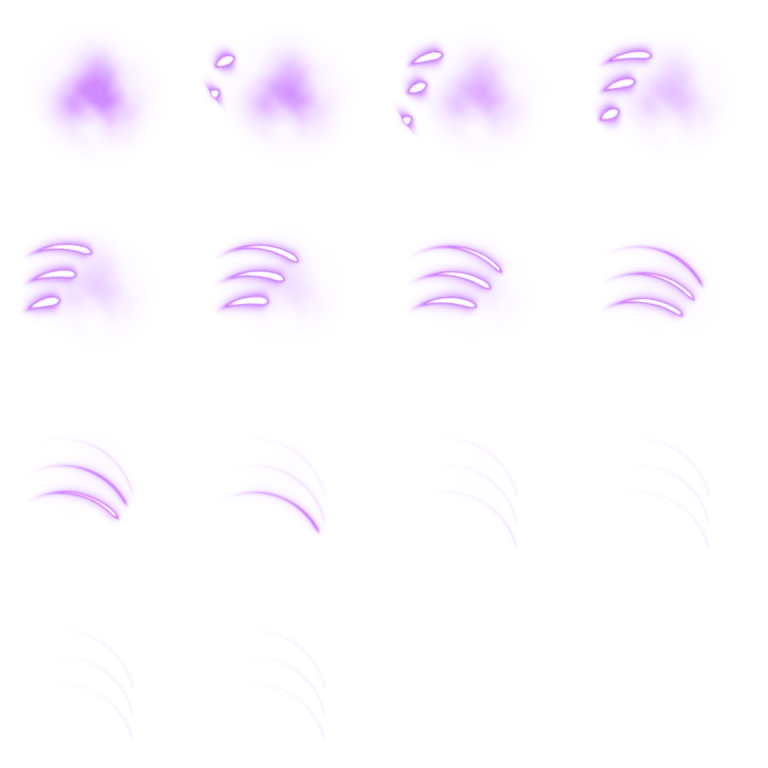
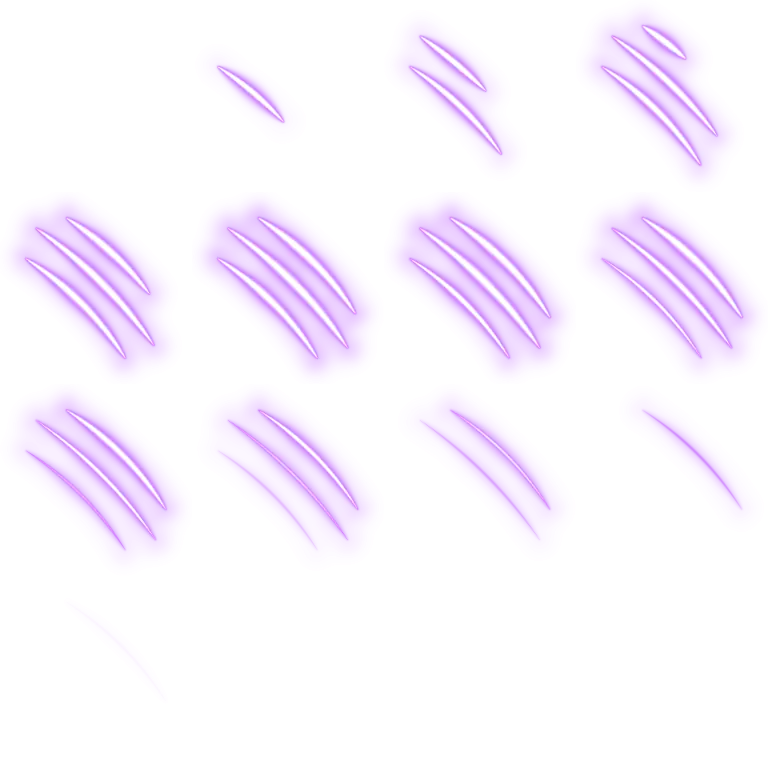
Soul Ripper: bold three-claw rake effect, violet GB warning aura and outline flash, claws replace the yellow crush burst
Claude-Session: https://claude.ai/code/session_013of82ajRnBL7BbPzCXSFar

diff --git a/src/render/battle-view.ts b/src/render/battle-view.ts
@@ -306,13 +306,18 @@ export class BattleView {
         const fx = toPx(f.x);
         const fy = toPx(f.y);
         this.vfx.shatter(fx, fy, this.fighters[who].color, 6, 18, 30);
-        this.fx.spawn('crush', { x: fx, y: fy, size: 3.4 * PX, alpha: 0.75 });
-        if (e.type === EV_CRUSH && this.moveIs(e.who, 'soulRipper')) this.fx.spawn('reaper', { x: fx, y: fy, size: 3.4 * PX, rot: s.f[e.who].facing * ANG_TO_RAD, speed: 1.4 });
+        // Soul Ripper crushes with its own violet claws instead of the generic yellow shatter
+        const ripper = e.type === EV_CRUSH && this.moveIs(e.who, 'soulRipper');
+        const accent = ripper ? 0xd9a8ff : 0xffd060;
+        if (ripper) {
+          this.fx.spawn('reaper', { x: fx, y: fy, size: 4.2 * PX, rot: s.f[e.who].facing * ANG_TO_RAD, speed: 0.9, alpha: 0.9 });
+          this.fx.spawn('ghost_fade', { x: fx, y: fy, size: 2.4 * PX, alpha: 0.45 });
+        } else this.fx.spawn('crush', { x: fx, y: fy, size: 3.4 * PX, alpha: 0.75 });
         if (e.type === EV_CRUSH && this.moveIs(e.who, 'breakFang')) this.fx.spawn('fang', { x: fx, y: fy, size: 2.6 * PX, rot: s.f[e.who].facing * ANG_TO_RAD, speed: 1.6 });
-        this.vfx.ring(fx, fy, 0xffd060, 20, 180, 20, 10);
-        this.vfx.spark(fx, fy, 0xffd060, 16, 30, 40, 6);
-        this.vfx.text(e.type === EV_CRUSH ? 'CRUSH!' : 'GUARD BREAK', fx, fy - 100, 0xffd060, 40, 56, -0.6);
-        this.flashScreen(0xffd060, 0.35);
+        this.vfx.ring(fx, fy, accent, 20, 180, 20, 10);
+        this.vfx.spark(fx, fy, accent, 16, 30, 40, 6);
+        this.vfx.text(e.type === EV_CRUSH ? 'CRUSH!' : 'GUARD BREAK', fx, fy - 100, accent, 40, 56, -0.6);
+        this.flashScreen(accent, ripper ? 0.22 : 0.35);
         this.addShake(14);
         this.wave(fx, fy, 1.2);
         this.fighters[who].flash = 4;
@@ -740,7 +745,8 @@ export class BattleView {
           once(f.sf >= m.S, () => this.fx.spawn('gale', { x, y, size: reach * 1.05, rot: face, follow: () => { const p = pos(); return p && { ...p, rot: (this.fOf(i)?.facing ?? 0) * ANG_TO_RAD }; } }));
           break;
         case 'soulRipper':
-          once(f.sf >= m.S - 4, () => this.fx.spawn('reaper', { x: x + cos * reach * 0.55, y: y + sin * reach * 0.55, size: 2.8 * PX, rot: face, speed: 1.1 }));
+          // claws tear through the whole reach on the active frames
+          once(f.sf >= m.S - 2, () => this.fx.spawn('reaper', { x: x + cos * reach * 0.6, y: y + sin * reach * 0.6, size: 3.4 * PX, rot: face, speed: 1.0 }));
           break;
         case 'shieldBash':
           once(f.sf >= m.S, () => this.fx.spawn('bash', { x: x + cos * 60, y: y + sin * 60, size: 3.2 * PX, rot: face }));
@@ -757,7 +763,9 @@ export class BattleView {
       }
     };
     const dangerOn = !!m && !!m.gb && f.sf < m.S;
-    loop('danger', dangerOn, () => this.fx.spawn('danger', { x, y, size: 2.6 * PX, rot: face, loop: true, follow: () => { const p = pos(); return p && { ...p, rot: (this.fOf(i)?.facing ?? 0) * ANG_TO_RAD }; } }));
+    // guard-break warning aura (Phantom's is violet: the claws are coming)
+    const dangerSheet = m?.id === 'soulRipper' ? 'danger_p' : 'danger';
+    loop('danger', dangerOn, () => this.fx.spawn(dangerSheet, { x, y, size: 2.6 * PX, rot: face, loop: true, follow: () => { const p = pos(); return p && { ...p, rot: (this.fOf(i)?.facing ?? 0) * ANG_TO_RAD }; } }));
     loop('stun', f.st === ST_STUN, () => this.fx.spawn('stun', { x, y, size: 2 * PX, loop: true, alpha: 0.85, follow: pos }));
     const casting = !!m && !!m.heal && f.sf < m.heal.frame;
     loop('breeze', casting || f.buff > 0, () => this.fx.spawn('breeze', { x, y, size: 2.9 * PX, loop: true, alpha: casting ? 1 : 0.55, follow: pos }));
@@ -939,7 +947,8 @@ export class BattleView {
       let stroke = mix(fv.color, 0xffffff, 0.65);
       let strokeW = 5;
       if (shape === SH.triangle && Math.floor(f.sf / 3) % 2 === 0) {
-        stroke = 0xffe070;
+        // guard-break warning: the outline flashes (Phantom's Soul Ripper in violet-white)
+        stroke = f.st === ST_ATTACK && this.sim.moveOf(f)?.id === 'soulRipper' ? 0xf0d4ff : 0xffe070;
         strokeW = 9;
       }
       const lowGuard = shape === SH.hexagon && f.guardQ / char.guardMaxQ < 0.3 && f.st !== ST_ATTACK;

diff --git a/tools/fx/gen_fx.py b/tools/fx/gen_fx.py
@@ -483,7 +483,7 @@ def bash(size=384, n=14):
     save('bash', frames)
 
 
-def danger(size=256, n=16):
+def danger(size=256, n=16, name='danger', color=(1.0, 0.72, 0.2)):
     """Triangle (guard break) startup: pulsing warning aura (loop)."""
     x, y, r, th = grid(size)
     frames = []
@@ -500,8 +500,8 @@ def danger(size=256, n=16):
         ring = gauss(tri - (0.35 + 0.45 * pulse), 0.03) * (1 - pulse) * 1.5
         base = gauss(tri - 0.35, 0.05) * (0.6 + 0.4 * math.sin(t * 2 * np.pi * 2))
         inten = ring + base
-        frames.append(rgba(glowify(inten, 4, 0.7), (1.0, 0.72, 0.2), white_core=0.5))
-    save('danger', frames, fps=30)
+        frames.append(rgba(glowify(inten, 4, 0.7), color, white_core=0.5))
+    save(name, frames, fps=30)
 
 
 def stun(size=256, n=16):
@@ -665,30 +665,54 @@ def ghost_appear(size=320, n=16):
     save('ghost_appear', frames)
 
 
-def reaper(size=384, n=14):
-    """Soul Ripper: three violet claw crescents raking across, with a ghostly afterglow."""
+def reaper(size=384, n=16):
+    """Soul Ripper: three bold claw strokes raking diagonally across (facing +x), white-hot
+    cores in a violet glow, torn in one after another, then dissolving into violet mist."""
     x, y, r, th = grid(size)
     frames = []
     nz = fbm(size, 3, 91, 5)
+    ns = 120
     for k in range(n):
         t = k / (n - 1)
         inten = np.zeros_like(r)
-        for i, off in enumerate((-0.28, 0.0, 0.28)):
-            lt = np.clip(t * 1.6 - i * 0.12, 0, 1)
+        mist = np.zeros_like(r)
+        nrm = np.array([1.0, -1.0]) / math.sqrt(2)  # normal of the diagonal strokes
+        for i, off in enumerate((-0.3, 0.0, 0.3)):
+            lt = np.clip(t * 2.2 - i * 0.18, 0, 1.6)
             if lt <= 0:
                 continue
-            # crescent: arc of radius R centred off to one side, revealed as lt sweeps
-            R = 0.75
-            cx, cy = -0.35, off - R * 0.2
-            rr = np.sqrt((x - cx) ** 2 + (y - cy - R) ** 2)
-            ang = np.arctan2(y - cy - R, x - cx)
-            sweep = smooth(-2.2, -2.2 + 1.9 * lt, ang) * (1 - smooth(-2.2 + 1.9 * lt, -2.2 + 1.9 * lt + 0.15, ang))
-            width = 0.028 * (1 - lt * 0.6)
-            inten += gauss(rr - R, width) * (0.6 + 0.4 * nz) * sweep * (1 - max(0, lt - 0.6) * 2.4) * 2.0
-            inten += gauss(rr - R, width * 4) * sweep * (1 - lt) * 0.5
-        inten += gauss(r, 0.35) * (1 - t) ** 3 * 0.6 * nz
-        frames.append(rgba(glowify(inten, 4, 0.7), PURPLE, white_core=0.8))
+            head = min(1.0, ease_out(min(1.0, lt / 0.55)))  # how far the stroke has been torn
+            fade = max(0.0, 1 - max(0.0, lt - 0.7) * 1.4)
+            if fade <= 0:
+                continue
+            # curved stroke from upper-left to lower-right, offset along its normal
+            L = 0.62 - abs(off) * 0.35  # outer claws a little shorter
+            p0 = np.array([-L, -L]) + nrm * off
+            p1 = np.array([L, L]) + nrm * off
+            ctrl = (p0 + p1) / 2 + nrm * 0.16
+            best = np.full(r.shape, 9.0, np.float32)
+            prof = np.zeros_like(r)
+            for j in range(ns + 1):
+                sj = j / ns * head
+                q = (1 - sj) ** 2 * p0 + 2 * (1 - sj) * sj * ctrl + sj ** 2 * p1
+                d = np.sqrt((x - q[0]) ** 2 + (y - q[1]) ** 2)
+                closer = d < best
+                best = np.where(closer, d, best)
+                # tapered: thick in the middle of the full stroke, sharp at both ends
+                w = 0.006 + 0.028 * math.sin(math.pi * (j / ns)) ** 0.8
+                prof = np.where(closer, w, prof)
+            core = np.exp(-(best / np.maximum(prof * 0.45, 1e-3)) ** 2)
+            glow = np.exp(-(best / np.maximum(prof * 2.2, 1e-3)) ** 2)
+            inten += (core * 1.7 + glow * 0.55) * fade
+            mist += np.exp(-(best / 0.16) ** 2) * fade * (0.5 + 0.5 * nz)
+        inten += mist * 0.25 * min(1.0, t * 3)
+        frames.append(rgba(glowify(inten, 3, 0.45), PURPLE, white_core=0.9))
     save('reaper', frames)
+
+
+def danger_violet():
+    """Phantom's guard-break warning aura: the same pulsing triangle, in violet."""
+    danger(name='danger_p', color=(0.8, 0.45, 1.0))
 
 
 if __name__ == '__main__':
@@ -717,6 +741,7 @@ if __name__ == '__main__':
     ghost_fade()
     ghost_appear()
     reaper()
+    danger_violet()
     with open(os.path.join(OUT, 'fx.json'), 'w') as f:
         json.dump(MANIFEST, f, indent=1)
     total = sum(os.path.getsize(os.path.join(OUT, m['file'])) for m in MANIFEST.values())

diff --git a/characterSetting.md b/characterSetting.md
@@ -187,6 +187,7 @@ GBから始まるルートは `guard` ボット相手、JAルートは `justThen
 - **状態ごと**（`stateFx()`）：`switch (m.id)` でスキルIDごとに出す。例：
   - `flareRush`：予兆〜持続の間、2Fごとに炎スプライトを背後に出す
   - `breakFang`：発生6F前に牙を正面に
+  - `soulRipper`：発生2F前に紫の3本爪（`reaper`）を正面に。GB予兆のオーラは紫（`danger_p`）、三角の縁の点滅も紫白。クラッシュ時は黄色の `crush` の代わりに大きな3本爪
   - `galePierce`：発生時に風槍（コマに追従）
   - `shieldBash`：発生時に衝撃壁
   - ループ系：GB予兆の `danger`、当て身の構え、ブリーズのバフ、スタン、JA受付
@@ -210,7 +211,7 @@ GBから始まるルートは `guard` ボット相手、JAルートは `justThen
   - 名前が `_t` で終わるものは**白で焼いて実行時にキャラ色で着色**（`tint`）。スキル固有は色つきで焼く。
   - `save()` はフル解像度を `public/fx/` に、**半解像度（2×2縮小）を `public/fx/lo/`** に書き、`fx.json` に登録する。
 - 新しいエフェクトの追加：関数を書く → `__main__` の末尾に呼び出しを足す（**末尾に足す**：乱数の順序が変わると既存の絵が変わる）→ `python3 tools/fx/gen_fx.py [--preview out.png]` → `stateFx()` / `handle()` で `spawn`。
-- 実行時：タッチ端末とメモリ4GB以下の端末は `lo/` を読む（GPUメモリ対策。フル解像度で約193MB、半解像度で約48MB）。**新しいシートを足すときは合計を増やしすぎない**（1枚あたり size 256〜384、12〜16フレームが基本）。
+- 実行時：タッチ端末とメモリ4GB以下の端末は `lo/` を読む（GPUメモリ対策。フル解像度で約197MB、半解像度で約49MB）。**新しいシートを足すときは合計を増やしすぎない**（1枚あたり size 256〜384、12〜16フレームが基本）。
 
 ### 7.3 現在のシート一覧（フル解像度。lo は各辺1/2）
 | 名前 | 1コマ | コマ数 | 並び | fps | 色 | シート | GPU |
@@ -237,7 +238,8 @@ GBから始まるルートは `guard` ボット相手、JAルートは `justThen
 | wall_t（壁衝突） | 384px | 14 | 4×4 | 60 | 白 | 1536×1536 | 9.4MB |
 | ghost_fade（幻影が消える） | 320px | 16 | 4×4 | 60 | 色（紫） | 1280×1280 | 6.6MB |
 | ghost_appear（本体が現れる） | 320px | 16 | 4×4 | 60 | 色（紫） | 1280×1280 | 6.6MB |
-| reaper（ファントムS2） | 384px | 14 | 4×4 | 60 | 色（紫） | 1536×1536 | 9.4MB |
+| reaper（ファントムS2の3本爪） | 384px | 16 | 4×4 | 60 | 色（紫） | 1536×1536 | 9.4MB |
+| danger_p（ファントムのGB予兆、紫） | 256px | 16 | 4×4 | 30 | 色（紫） | 1024×1024 | 4.2MB |
 
 `fx.json` の1項目：`{ file, size（1コマのpx）, count, cols, fps, tint, anchor: [ax, ay], scale }`。
 
